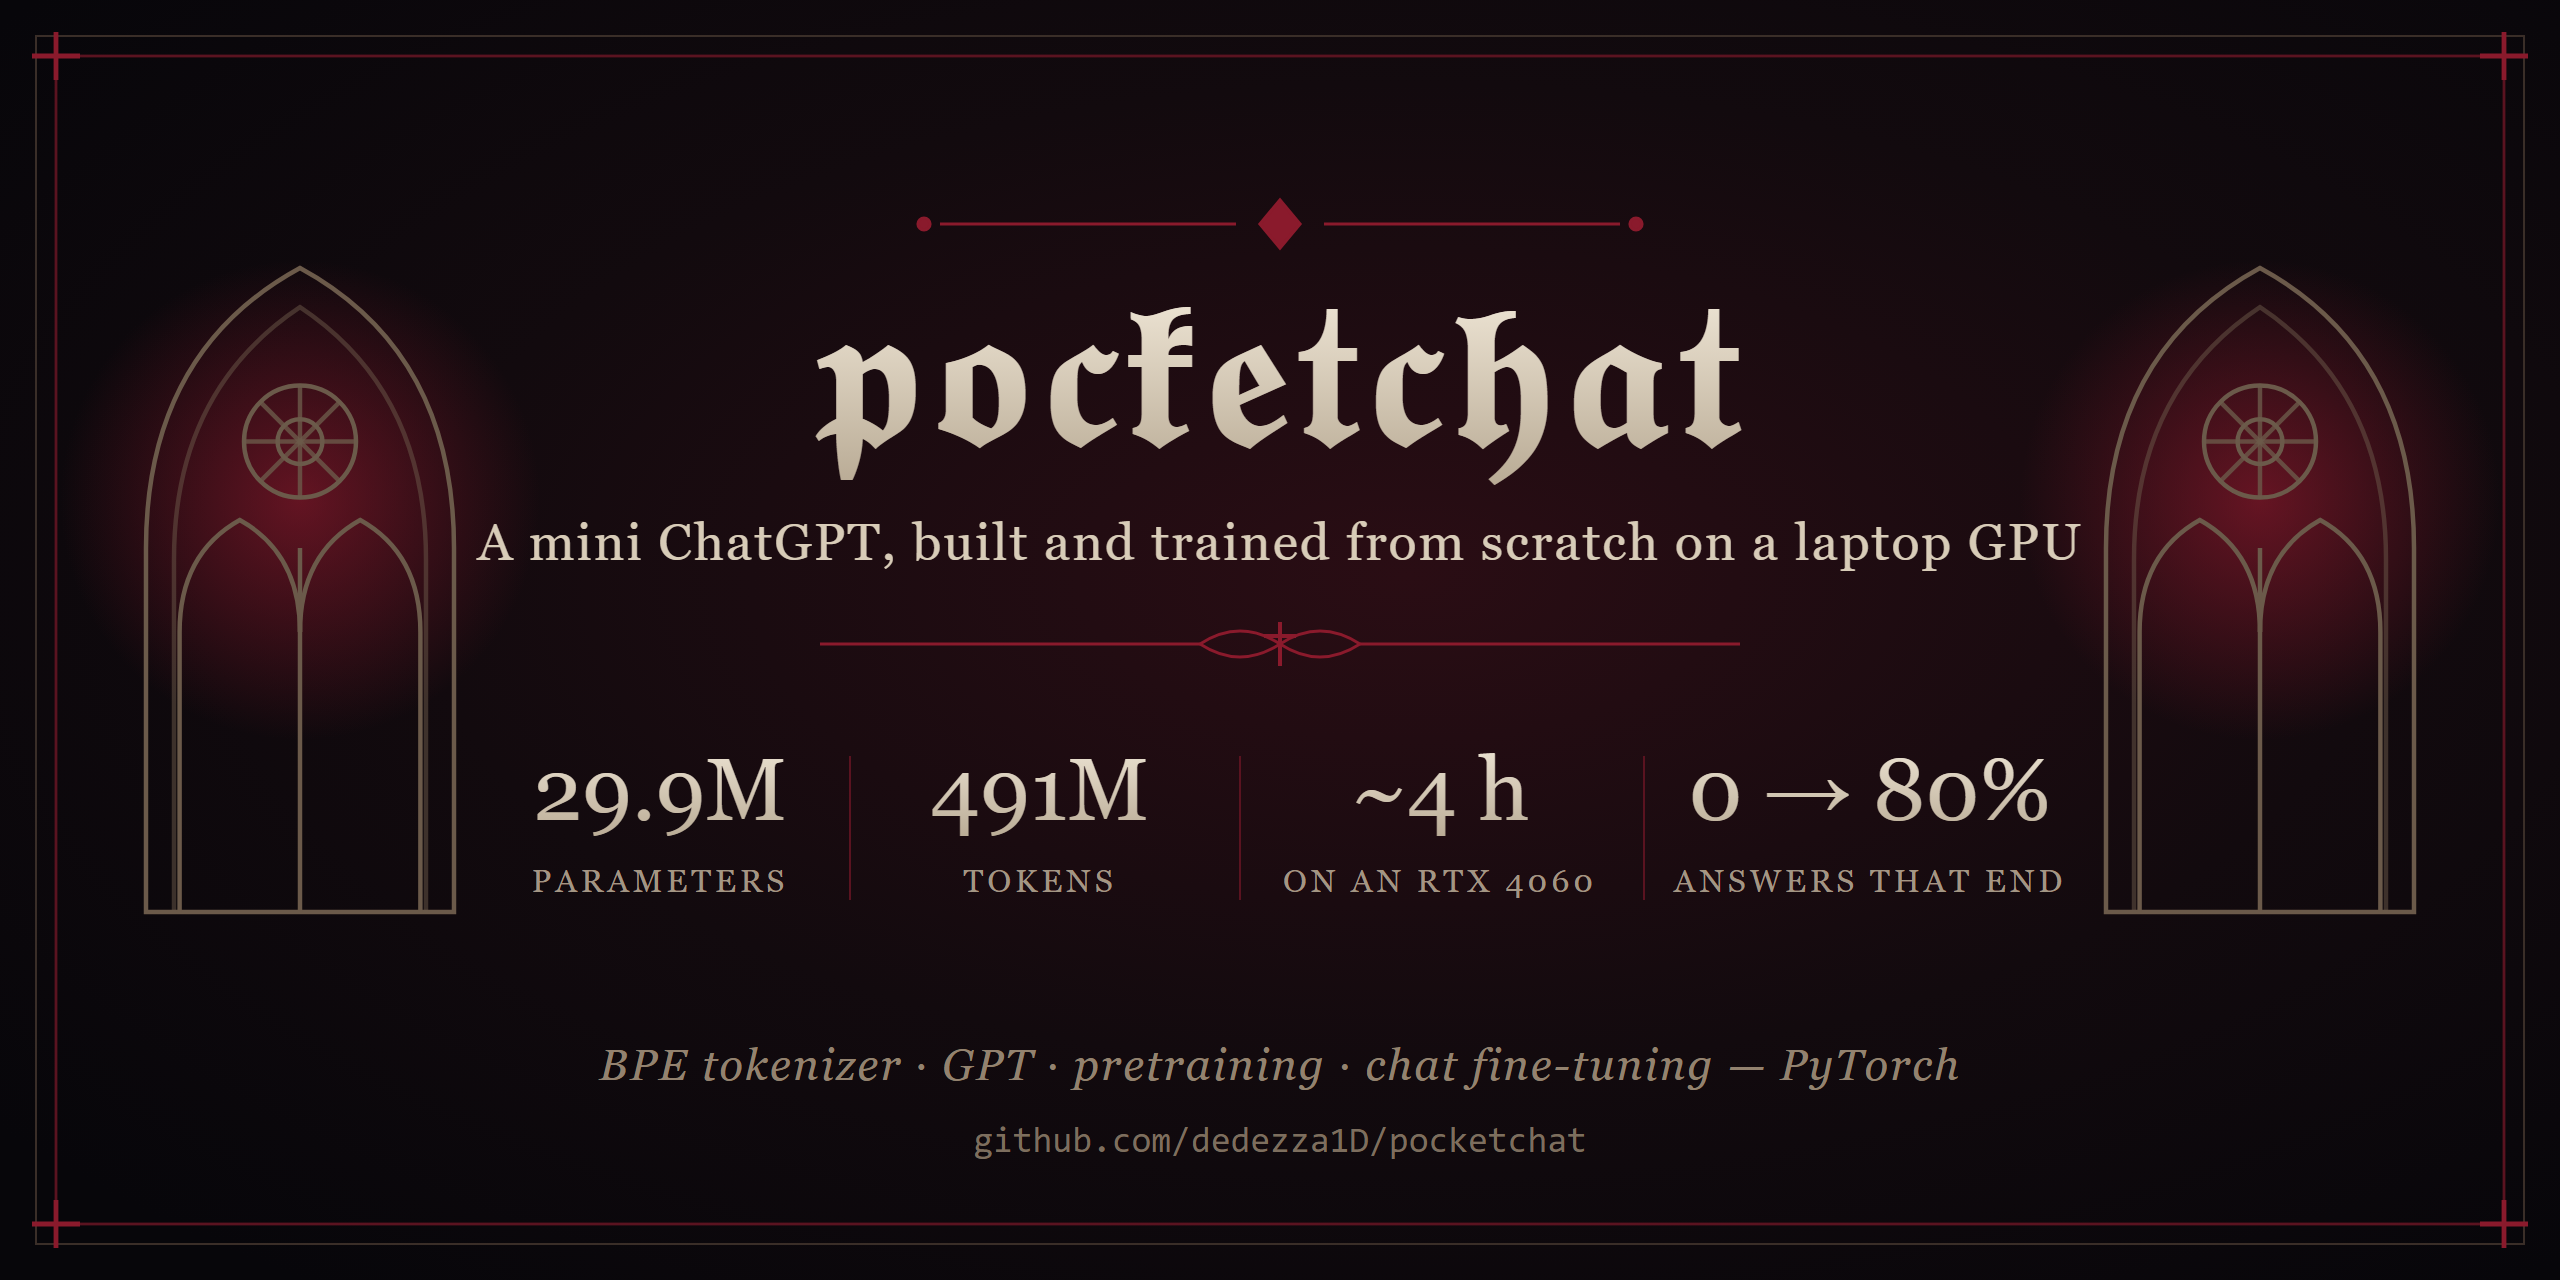
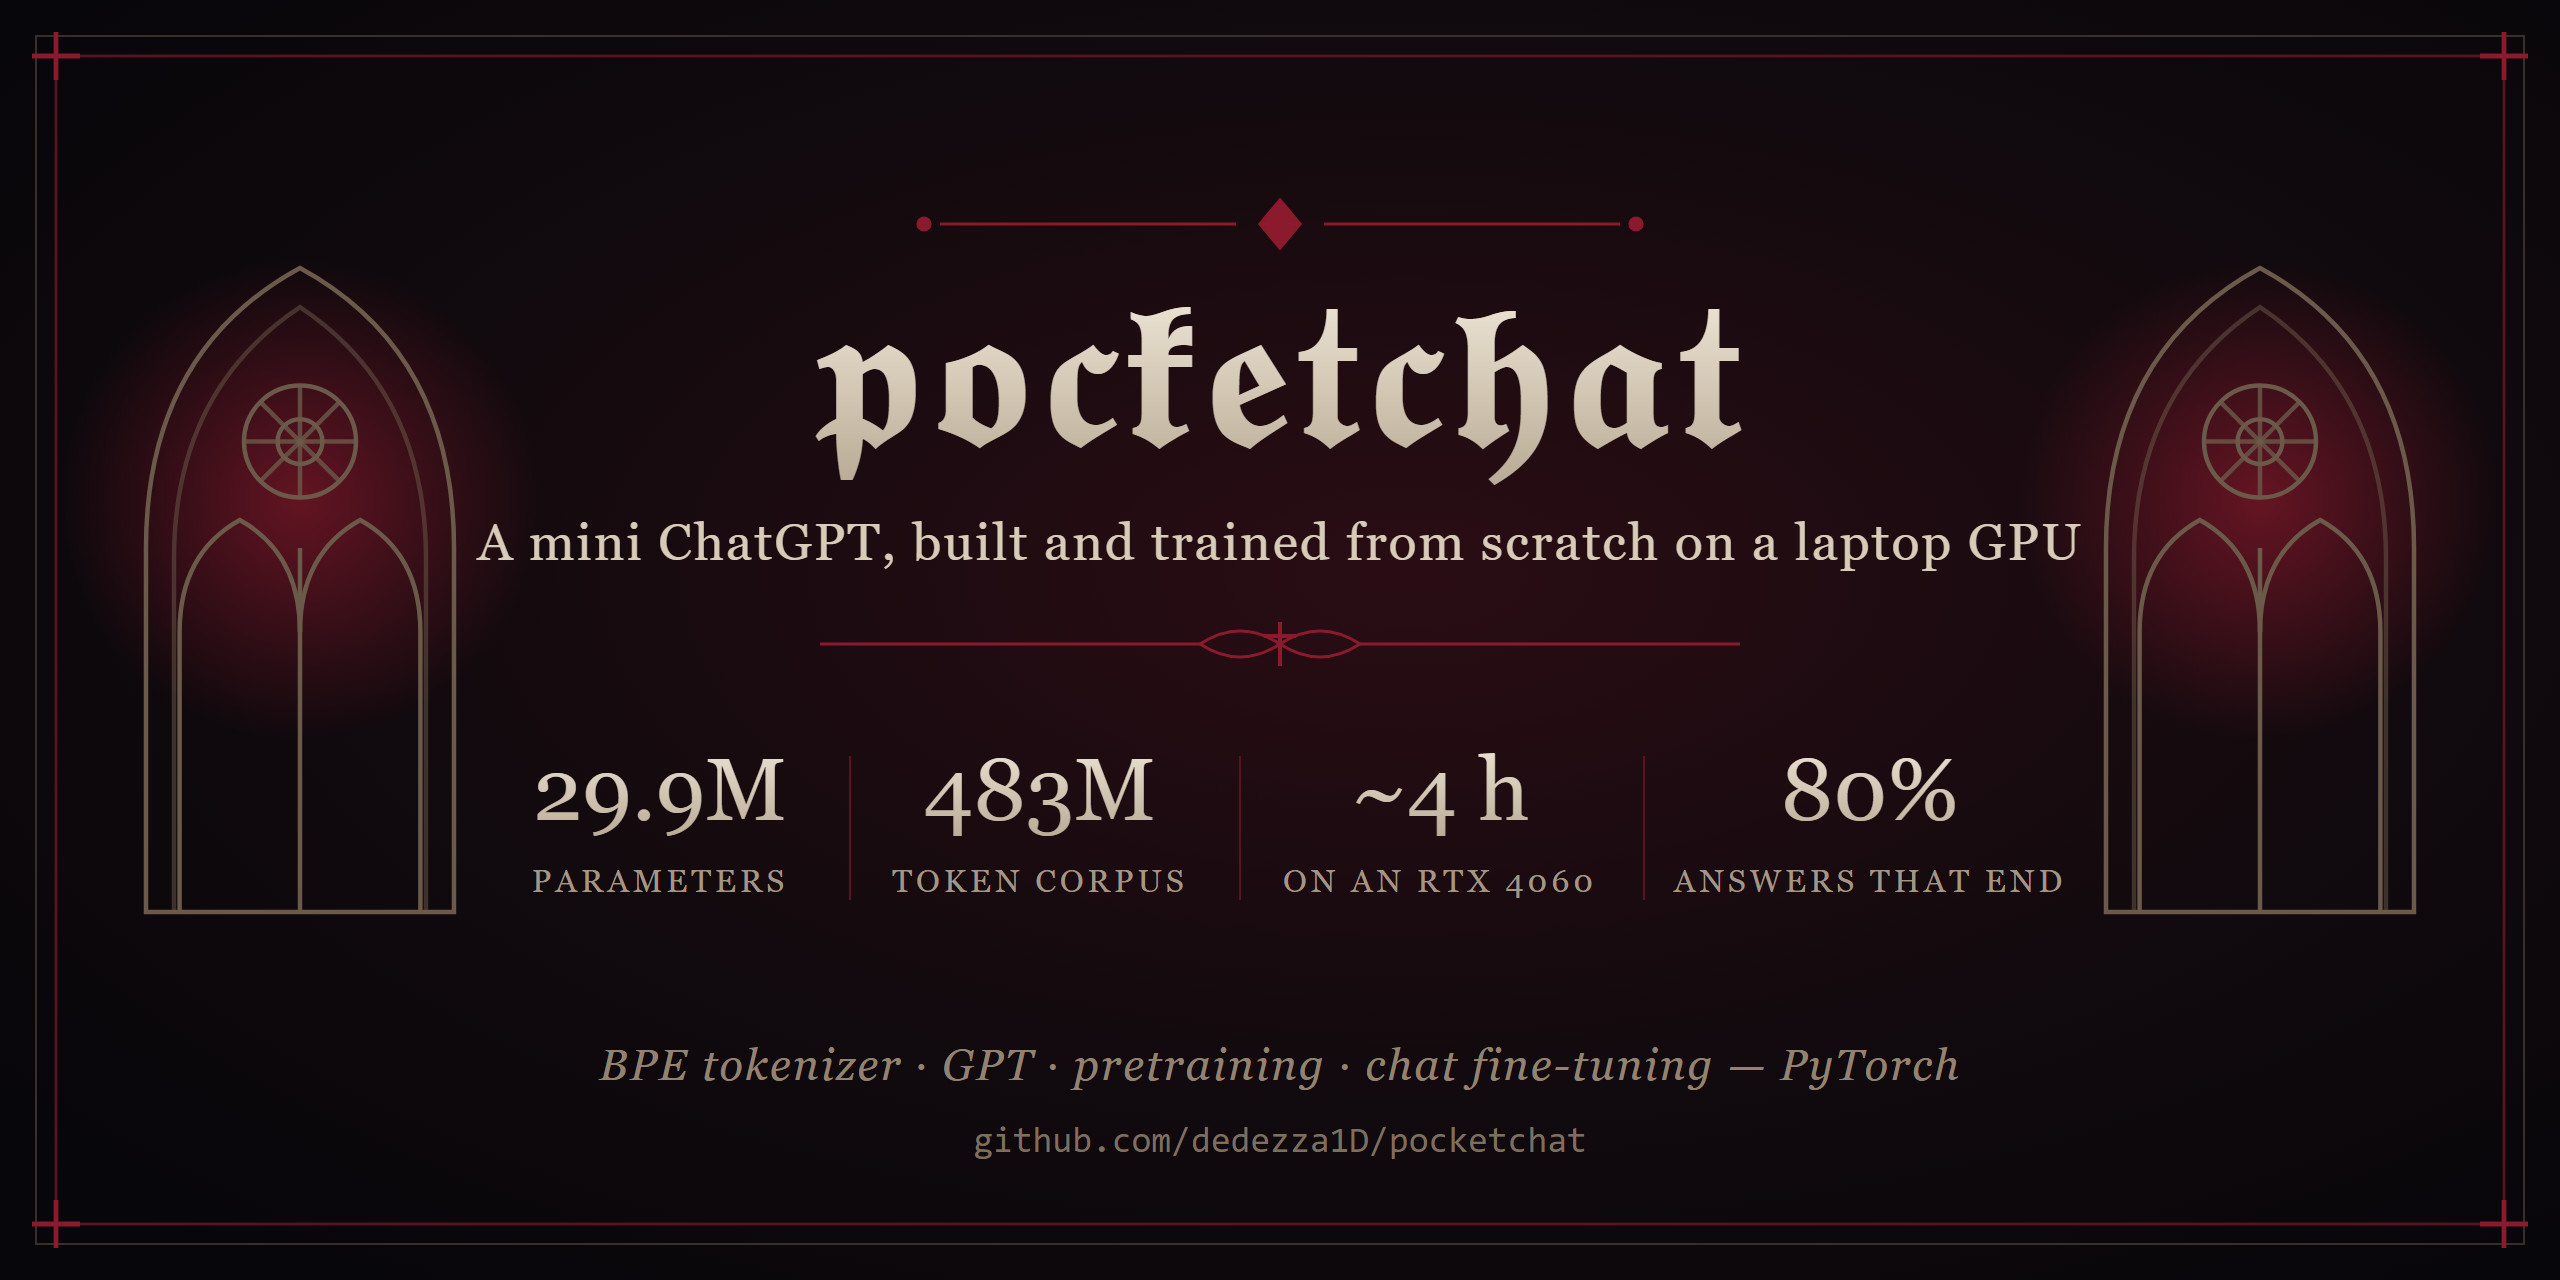
docs: state what the README image and training curve measure
The image and its alt text gave "491M tokens" and "0% to 80%" without the
context the README body gives. They now show the 483M-token corpus and the
80% of answers that end with the end-of-turn token; the 0% of the pretrained
model stays in the results table, with its explanation.

The training-curve caption said its last point used all validation windows.
The plot reads the training log, where every point used a sampled subset;
the caption now gives the loss on all windows (3.243) separately.

Changed region(s): [[0.3438, 0.5938, 0.4688, 0.7188], [0.6562, 0.5938, 0.8125, 0.6562]]

diff --git a/scripts/plot_curves.py b/scripts/plot_curves.py
@@ -2,9 +2,10 @@
 
     uv run python scripts/plot_curves.py   -> assets/training_curves.svg
 
-Left: pretraining validation loss (each point is a sampled subset of the validation windows; the
-last point uses all of them). Right: fine-tuning validation loss on the assistant tokens, for the
-run that kept the chat-token rows and the run that reinitialized them.
+Left: pretraining validation loss (each point is a sampled subset of the validation windows, as
+logged during training; evals/forgetting.txt has the loss on all of them). Right: fine-tuning
+validation loss on the assistant tokens, for the run that kept the chat-token rows and the run that
+reinitialized them.
 """
 
 import json

diff --git a/README.md b/README.md
@@ -3,7 +3,7 @@
 [![tests](https://github.com/dedezza1D/pocketchat/actions/workflows/tests.yml/badge.svg)](https://github.com/dedezza1D/pocketchat/actions/workflows/tests.yml)
 
 <p align="center">
-  <img src="assets/pocketchat.png" alt="pocketchat — a mini ChatGPT built and trained from scratch on a laptop GPU: 29.9M parameters, 491M tokens, about 4 hours on an RTX 4060, answers that end from 0% to 80%" width="100%">
+  <img src="assets/pocketchat.png" alt="pocketchat — a mini ChatGPT built and trained from scratch on a laptop GPU: 29.9M parameters, a 483M-token corpus, about 4 hours on an RTX 4060, 80% of answers end with the end-of-turn token" width="100%">
 </p>
 
 A small ChatGPT-style language model built and trained from scratch on a single laptop GPU (RTX 4060, 8 GB).
@@ -29,14 +29,14 @@ Every checkpoint records the tokenizer it was trained with (path and SHA-256), a
 |---|---|
 | Architecture | 8 layers, 8 heads, width 512, SwiGLU hidden 1,408, context 512, vocabulary 8,192, tied embeddings |
 | Parameters | 29.9M |
-| Pretraining | 15,000 steps × 32,768 tokens (491M token positions), AdamW (β 0.9, 0.95), weight decay 0.1, learning rate 1e-3 → 1e-4 (warmup + cosine), bf16, peak 3.2 GiB, about 4 h |
+| Pretraining | 15,000 steps × 32,768 tokens (491M token positions sampled from a 483M-token corpus), AdamW (β 0.9, 0.95), weight decay 0.1, learning rate 1e-3 → 1e-4 (warmup + cosine), bf16, peak 3.2 GiB, about 4 h |
 | Fine-tuning | 17,411 conversations, 3 passes (1,632 steps), learning rate 1e-4 → 1e-5, about 20 min |
 
 <p align="center">
   <img src="assets/training_curves.svg" alt="Validation loss during pretraining, from 4.58 at step 500 to 3.24 at step 15,000, and assistant-token validation loss during fine-tuning for the two runs, from 2.96 and 3.10 to about 2.58" width="100%">
 </p>
 
-(`scripts/plot_curves.py`. During pretraining each point used a sampled subset of the validation windows; the final value uses all of them.)
+(`scripts/plot_curves.py`. During pretraining each point used a sampled subset of the validation windows; on all 4,997 windows, the final loss is 3.243.)
 
 ## Results
 
